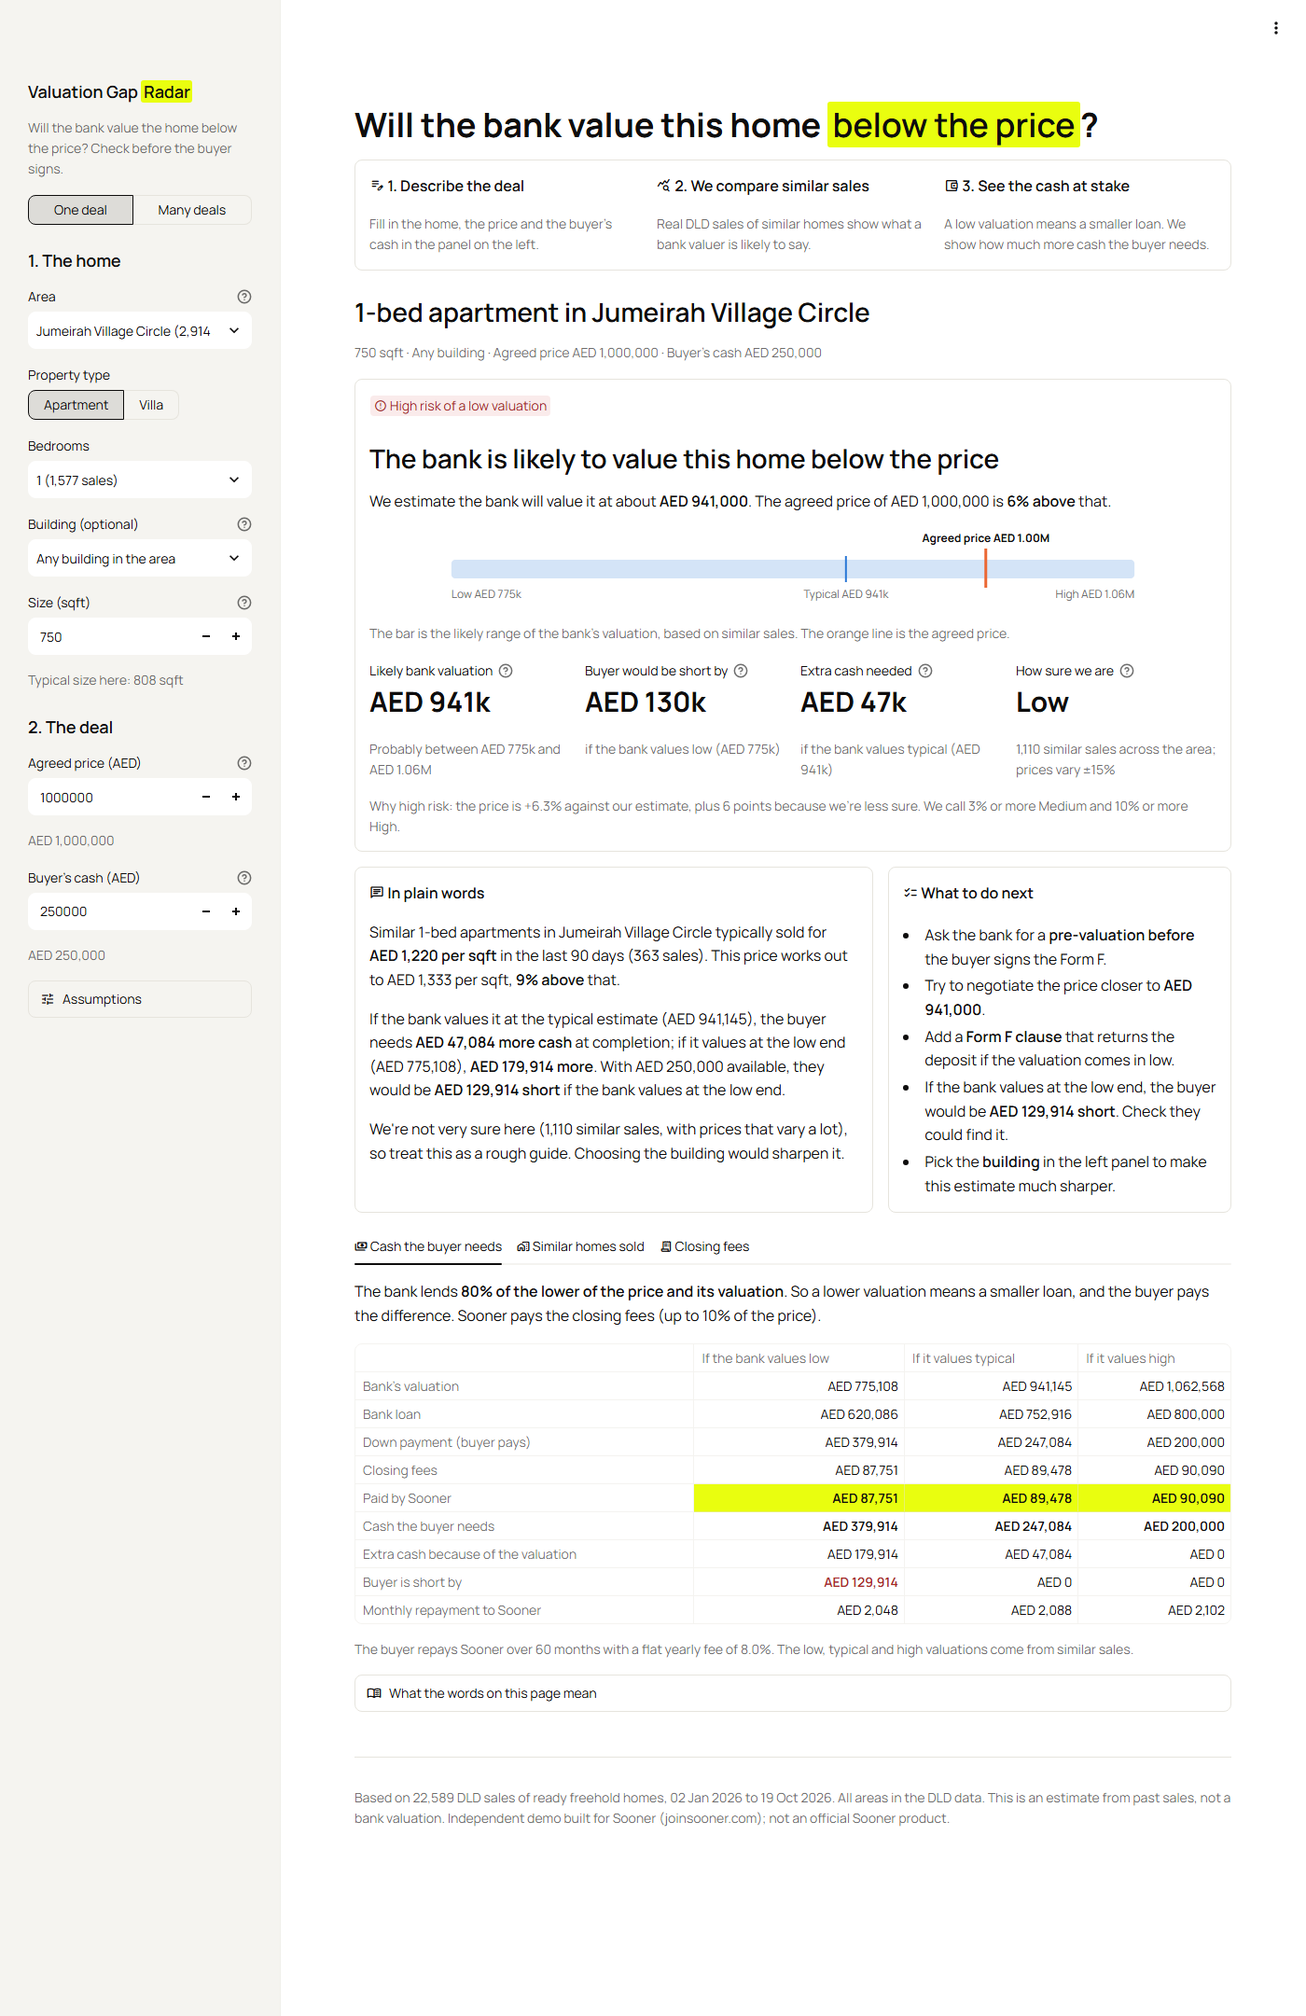
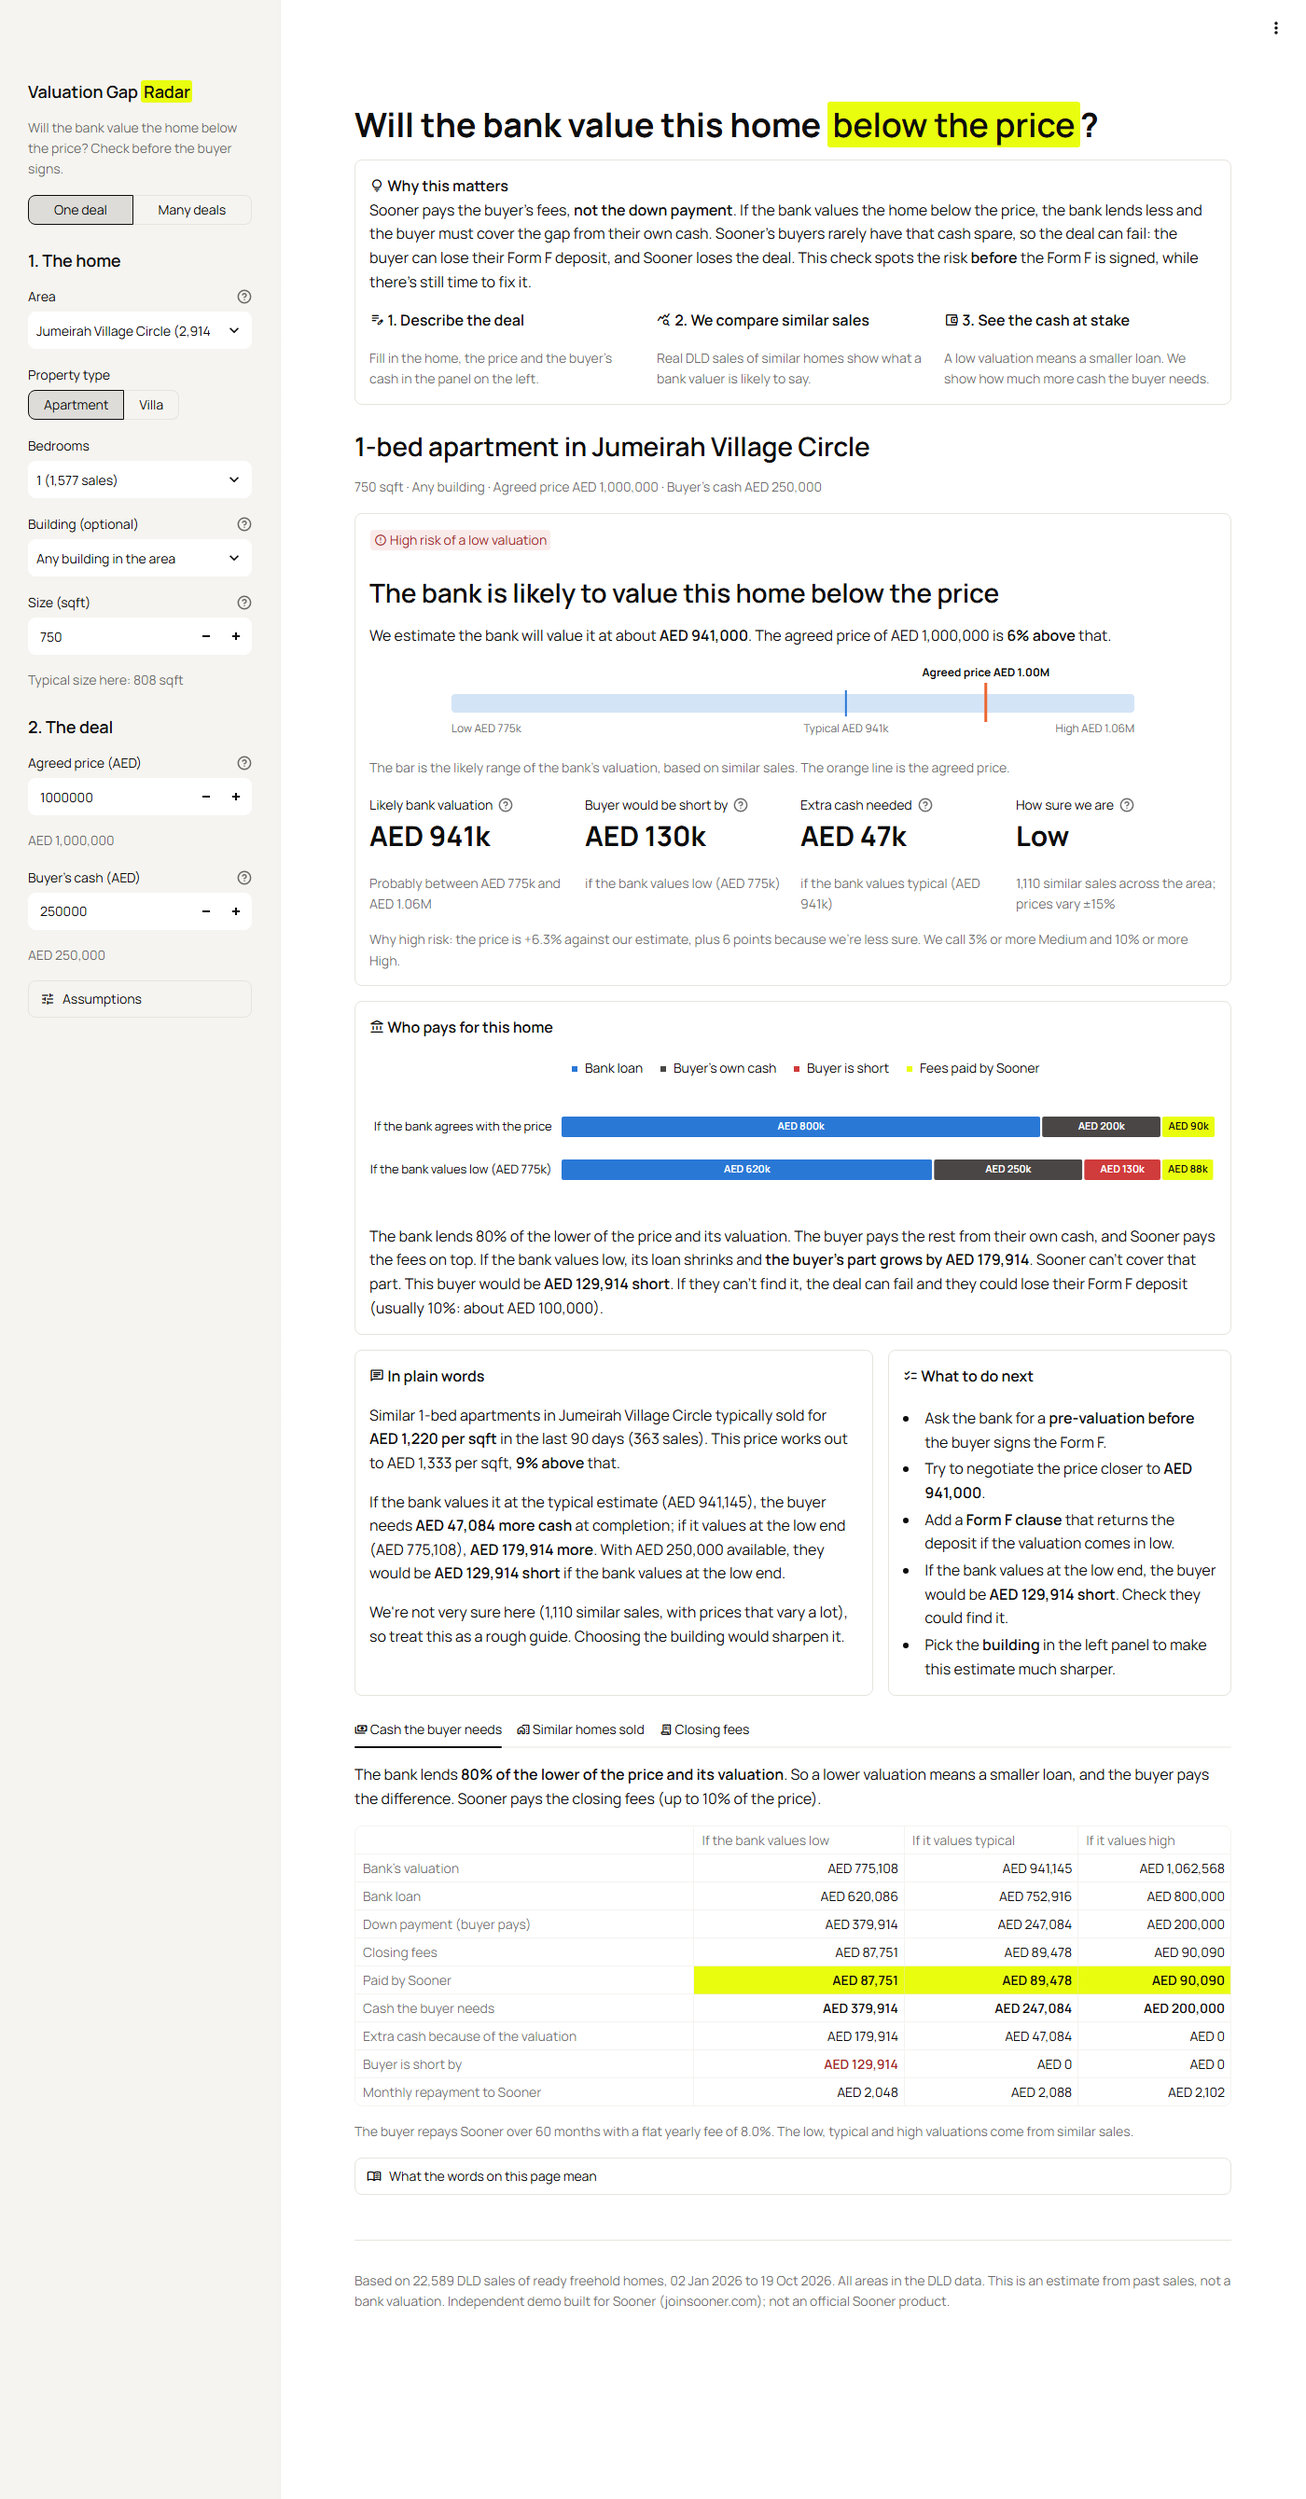
Explain why Sooner cares, right in the app
- "Why this matters" box at the top of both pages: Sooner pays the fees,
  not the down payment, so a low valuation lands on the buyer and can sink
  the deal (lost Form F deposit, lost deal for Sooner)
- "Who pays for this home" chart: one bar if the bank agrees with the price
  and one if it values low, split into bank loan, buyer's own cash, any
  shortfall and Sooner's fees, with the deposit at stake spelled out
- Many deals: "Deposits at risk" tile (10% Form F deposits of buyers who'd
  be short if valued low); FORM_F_DEPOSIT_SHARE added to config
- App tests check the new sections; README and screenshots updated

Changed region(s): [[0.2764, 0.031, 0.9521, 0.9301], [0.0, 0.031, 0.1843, 0.4031], [0.0307, 0.4341, 0.0614, 0.4961]]

diff --git a/app.py b/app.py
@@ -32,9 +32,11 @@ st.set_page_config(page_title="Valuation Gap Radar", page_icon=":material/radar:
 # kept for highlights only, because as a line or dot on white it can't be seen.
 COLORS = {
     "light": {"comps": "#2a78d6", "deal": "#eb6834", "surface": "#ffffff", "band": 0.2,
-              "ink": "#0e0d0d", "muted": "#6e6e6e", "bad": "#a82828"},
+              "ink": "#0e0d0d", "muted": "#6e6e6e", "bad": "#a82828",
+              "buyer": "#4a4646", "buyer_ink": "#ffffff"},
     "dark": {"comps": "#3987e5", "deal": "#d95926", "surface": "#0e0d0d", "band": 0.4,
-             "ink": "#f4f4f4", "muted": "#9f9e9e", "bad": "#ff8a8a"},
+             "ink": "#f4f4f4", "muted": "#9f9e9e", "bad": "#ff8a8a",
+             "buyer": "#cfcfcf", "buyer_ink": "#0e0d0d"},
 }
 # Sooner's lime highlighter. Text on it is always near-black, as on joinsooner.com,
 # so it stays readable in dark mode too.
@@ -141,9 +143,10 @@ def home_label(property_type: str, bedrooms: int) -> str:
     return f"Studio {kind}" if bedrooms == 0 else f"{bedrooms}-bed {kind}"
 
 
-def how_it_works(steps: list[tuple[str, str, str]]) -> None:
-    """A row of numbered steps that explains the page in a few seconds."""
+def page_intro(why: str, steps: list[tuple[str, str, str]]) -> None:
+    """Why the page matters to Sooner, then numbered steps explaining how to use it."""
     with st.container(border=True):
+        st.markdown(f":material/lightbulb: **Why this matters**  \n{why}")
         for column, (icon, title, text) in zip(st.columns(len(steps)), steps):
             column.markdown(f"{icon} **{title}**")
             column.caption(text)
@@ -246,14 +249,20 @@ def settings_inputs() -> dict:
 
 def show_deal(sales: pd.DataFrame, d: dict, settings: dict) -> None:
     st.markdown(f"## Will the bank value this home {highlight('below the price')}?", unsafe_allow_html=True)
-    how_it_works([
+    page_intro(
+        "Sooner pays the buyer's fees, **not the down payment**. If the bank values the home below the price, "
+        "the bank lends less and the buyer must cover the gap from their own cash. Sooner's buyers rarely have "
+        "that cash spare, so the deal can fail: the buyer can lose their Form F deposit, and Sooner loses the "
+        "deal. This check spots the risk **before** the Form F is signed, while there's still time to fix it.",
+        [
         (":material/edit_note:", "1. Describe the deal", "Fill in the home, the price and the buyer's cash "
                                                          "in the panel on the left."),
         (":material/query_stats:", "2. We compare similar sales", "Real DLD sales of similar homes show what "
                                                                   "a bank valuer is likely to say."),
         (":material/account_balance_wallet:", "3. See the cash at stake", "A low valuation means a smaller loan. "
                                                                          "We show how much more cash the buyer needs."),
-    ])
+        ],
+    )
 
     building = d["project"] or "Any building"
     st.subheader(f"{home_label(d['property_type'], d['bedrooms'])} in {d['area']}")
@@ -279,6 +288,7 @@ def show_deal(sales: pd.DataFrame, d: dict, settings: dict) -> None:
                         estimate=est, risk=risk, scenarios=scenarios, include_actions=False)
 
     verdict_card(d, est, risk, scenarios)
+    who_pays(d, est, settings)
     left, right = st.columns([3, 2])
     with left:
         text_card("In plain words", ":material/chat:", note)
@@ -342,6 +352,75 @@ def verdict_card(d: dict, est, risk, scenarios: pd.DataFrame) -> None:
                + f". We call {config.MEDIUM_RISK_FROM:.0%} or more Medium and {config.HIGH_RISK_FROM:.0%} "
                  "or more High.")
         st.caption(why)
+
+
+def who_pays(d: dict, est, settings: dict) -> None:
+    """Who pays what, if the bank agrees with the price and if it values low.
+
+    This is the heart of the problem: Sooner covers the fees, but a low
+    valuation grows the buyer's own part, which Sooner can't cover.
+    """
+    split = scenario_table(
+        d["price"],
+        {"If the bank agrees with the price": d["price"],
+         f"If the bank values low ({aed_short(est.value_p25)})": est.value_p25},
+        d["cash_available"], **settings,
+    )
+    agree, low = split.iloc[0], split.iloc[1]
+    extra = low["cash_needed"] - agree["cash_needed"]
+
+    with st.container(border=True):
+        st.markdown(":material/account_balance: **Who pays for this home**")
+        st.altair_chart(who_pays_chart(split, d["cash_available"], colors()), width="stretch")
+        text = (f"The bank lends {settings['ltv']:.0%} of the lower of the price and its valuation. The buyer pays "
+                "the rest from their own cash, and Sooner pays the fees on top. ")
+        if extra > 0:
+            text += (f"If the bank values low, its loan shrinks and **the buyer's part grows by {aed(extra)}**. "
+                     "Sooner can't cover that part.")
+        else:
+            text += "Even at the low end of the likely range, the valuation is at or above the price, so the buyer's part doesn't grow."
+        if low["shortfall"] > 0:
+            deposit = config.FORM_F_DEPOSIT_SHARE * d["price"]
+            text += (f" This buyer would be **{aed(low['shortfall'])} short**. If they can't find it, the deal can "
+                     f"fail and they could lose their Form F deposit (usually "
+                     f"{config.FORM_F_DEPOSIT_SHARE:.0%}: about {aed_round(deposit)}).")
+        st.markdown(text)
+
+
+def who_pays_chart(split: pd.DataFrame, cash: float, c: dict) -> alt.Chart:
+    """One bar per scenario: the bank's loan, the buyer's own cash, any shortfall, and Sooner's fees."""
+    parts = ["Bank loan", "Buyer's own cash", "Buyer is short", "Fees paid by Sooner"]
+    fills = [c["comps"], c["buyer"], "#d03b3b", "#e9fe0f"]
+    inks = ["#ffffff", c["buyer_ink"], "#ffffff", "#0e0d0d"]  # label colour on each fill
+    rows = []
+    for _, s in split.iterrows():
+        amounts = [s["loan"], min(s["cash_needed"], cash), s["shortfall"], s["sooner_support"]]
+        start = 0.0
+        for part, amount, ink in zip(parts, amounts, inks):
+            rows.append({"scenario": s["name"], "part": part, "start": start, "end": start + amount,
+                         "mid": start + amount / 2, "amount": amount, "label": aed_short(amount), "ink": ink})
+            start += amount
+    data = pd.DataFrame(rows)
+    data = data[data["amount"] > 0]
+    total = data["end"].max()
+    x_scale = alt.Scale(domain=[0, total])
+    y = alt.Y("scenario:N", sort=split["name"].tolist(), title=None,
+              axis=alt.Axis(labelLimit=320, labelFontSize=13, ticks=False, domain=False,
+                            labelPadding=10, labelColor=c["ink"]))
+
+    bars = alt.Chart(data).mark_bar(size=24, cornerRadius=3, stroke=c["surface"], strokeWidth=2).encode(
+        y=y, x=alt.X("start:Q", scale=x_scale, axis=None), x2="end:Q",
+        color=alt.Color("part:N", scale=alt.Scale(domain=parts, range=fills),
+                        legend=alt.Legend(orient="top", title=None, labelColor=c["ink"], symbolType="square")),
+        tooltip=[alt.Tooltip("scenario:N", title="Scenario"), alt.Tooltip("part:N", title="Part"),
+                 alt.Tooltip("amount:Q", title="AED", format=",.0f")],
+    )
+    # Write the amount inside a segment only when it's wide enough to hold it.
+    labels = alt.Chart(data[data["amount"] / total > 0.08]).mark_text(fontSize=11, fontWeight=600).encode(
+        y=y, x=alt.X("mid:Q", scale=x_scale, axis=None), text="label:N", color=alt.Color("ink:N", scale=None),
+    )
+    # A fixed height per row (not for the whole chart) keeps the two bars apart.
+    return alt.layer(bars, labels).properties(height=alt.Step(46)).configure_view(stroke=None)
 
 
 def next_steps(est, risk, scenarios: pd.DataFrame) -> list[str]:
@@ -588,12 +667,17 @@ REPORT_FORMATS = {
 
 def show_batch(sales: pd.DataFrame, settings: dict) -> None:
     st.markdown(f"## Check {highlight('many deals')} at once", unsafe_allow_html=True)
-    how_it_works([
-        (":material/download:", "1. Get the template", "Download the example file below and see the columns."),
-        (":material/table_edit:", "2. One row per deal", "Fill it in, or export your pipeline from the CRM "
-                                                        "with the same columns."),
-        (":material/upload_file:", "3. Upload it", "Every deal is checked, and the riskiest come first."),
-    ])
+    page_intro(
+        "Every deal where the buyer would be short of cash could fail at the bank valuation: Sooner loses the "
+        "deal and the buyer can lose their deposit. This list shows which deals to act on first, **before** "
+        "their Form F is signed.",
+        [
+            (":material/download:", "1. Get the template", "Download the example file below and see the columns."),
+            (":material/table_edit:", "2. One row per deal", "Fill it in, or export your pipeline from the CRM "
+                                                            "with the same columns."),
+            (":material/upload_file:", "3. Upload it", "Every deal is checked, and the riskiest come first."),
+        ],
+    )
 
     with st.container(border=True):
         left, right = st.columns([3, 1], vertical_alignment="center")
@@ -616,20 +700,21 @@ def show_batch(sales: pd.DataFrame, settings: dict) -> None:
         report = assess_deals(sales, deals, **settings)
     assessed = report[report["risk"] != "Unknown"]
 
-    # Summary
-    short = assessed[assessed["short_median"] > 0]
+    # Summary: what's at stake for Sooner and its buyers
     short_low = assessed[assessed["short_p25"] > 0]
+    deposits = config.FORM_F_DEPOSIT_SHARE * short_low["price"].sum()
     c1, c2, c3, c4 = st.columns(4)
     c1.metric("Deals checked", len(report), border=True, icon=":material/fact_check:")
     c1.caption(f"{len(assessed)} assessed, {len(report) - len(assessed)} couldn't be (see Notes)")
     c2.metric("High risk", int((report["risk"] == "High").sum()), border=True, icon=":material/error:")
     c2.caption(f"Plus {int((report['risk'] == 'Medium').sum())} at Medium risk")
-    c3.metric("Short if typical", len(short), border=True, icon=":material/account_balance_wallet:",
-              help="Buyers who would lack cash if the bank values at the typical estimate.")
-    c3.caption(f"{aed(short['short_median'].sum())} short in total")
-    c4.metric("Short if low", len(short_low), border=True, icon=":material/trending_down:",
-              help="Buyers who would lack cash if the bank values at the low end of the range.")
-    c4.caption(f"{aed(short_low['short_p25'].sum())} short in total")
+    c3.metric("Could fail if valued low", len(short_low), border=True, icon=":material/trending_down:",
+              help="Deals where the buyer would be short of cash if the bank values at the low end of the range.")
+    c3.caption(f"Buyers {aed(short_low['short_p25'].sum())} short in total")
+    c4.metric("Deposits at risk", aed_short(deposits), border=True, icon=":material/savings:",
+              help=f"The Form F deposits (usually {config.FORM_F_DEPOSIT_SHARE:.0%} of the price) of the buyers "
+                   "in those deals. If a deal fails, the buyer can lose it.")
+    c4.caption(f"{config.FORM_F_DEPOSIT_SHARE:.0%} deposits across those {len(short_low)} deals")
 
     # Report, riskiest first
     st.subheader("Every deal, riskiest first")

diff --git a/radar/config.py b/radar/config.py
@@ -39,10 +39,14 @@ SOONER_FEE_DEFAULT = 0.08
 SOONER_VALUE_BASIS_DEFAULT = "price"  # "price" or "valuation"
 
 # ---------------------------------------------------------------------------
-# Mortgage
+# Mortgage and contract
 # ---------------------------------------------------------------------------
 # UAE Central Bank cap for an expat's first home under AED 5M.
 DEFAULT_LTV = 0.80
+
+# The deposit a buyer pays when signing the Form F (usually 10% in Dubai). They
+# can lose it if they can't complete, e.g. after a low valuation.
+FORM_F_DEPOSIT_SHARE = 0.10
 
 # ---------------------------------------------------------------------------
 # Closing costs: the fee lines on Sooner's calculator (joinsooner.com).

diff --git a/tests/test_app.py b/tests/test_app.py
@@ -27,7 +27,10 @@ def test_one_deal_page_shows_a_verdict():
     at = run_app()
 
     assert not at.exception
-    assert "We estimate the bank will value it at about" in page_text(at)
+    text = page_text(at)
+    assert "Why this matters" in text  # the business reason, up front
+    assert "We estimate the bank will value it at about" in text
+    assert "Who pays for this home" in text
     assert len(at.tabs) == 3
 
 
@@ -54,3 +57,4 @@ def test_pipeline_mode_reports_every_example_deal():
 
     assert not at.exception
     assert at.metric[0].value == "12"  # Deals checked
+    assert at.metric[3].label == "Deposits at risk"

diff --git a/README.md b/README.md
@@ -35,11 +35,13 @@ cash is at stake?
 
 ## What it does
 
-The app is written so anyone can follow it. It uses everyday words ("likely
-bank valuation", "buyer would be short by", "how sure we are") rather than
-P25 or LTV, each page opens with a three-step "how this works" strip, every
-input and number has a help tooltip, and a glossary at the bottom explains the
-terms.
+The app is written so anyone can follow it, including why it matters to the
+business. Each page opens with **"Why this matters"** (Sooner pays the fees,
+not the down payment, so a low valuation lands on the buyer and can sink the
+deal) and a three-step "how this works" strip. It uses everyday words ("likely
+bank valuation", "buyer would be short by", "how sure we are") rather than P25
+or LTV, every input and number has a help tooltip, and a glossary at the bottom
+explains the terms.
 
 **One deal.** Enter the home (area, type, bedrooms, building, size) and the
 deal (agreed price, buyer's cash). The page leads with the answer:
@@ -48,6 +50,10 @@ deal (agreed price, buyer's cash). The page leads with the answer:
   own colour and icon), a one-line headline, the estimate in a sentence, a bar
   showing where the agreed price sits against the likely valuation range, four
   key numbers, and a line saying why it's that risk level
+- **Who pays for this home**: one bar for "the bank agrees with the price" and
+  one for "the bank values low", each split into the bank's loan, the buyer's own
+  cash, any shortfall (in red) and the fees Sooner pays. It shows the buyer's
+  part growing when the valuation drops, and the Form F deposit at stake
 - **In plain words**: the advisor note, for example: *"Similar 1-bed apartments
   in Jumeirah Village Circle typically sold for AED 1,220 per sqft in the last
   90 days (363 sales). This price works out to AED 1,333 per sqft, 9% above
@@ -70,7 +76,9 @@ checked at once, riskiest first, with a downloadable report.
 ![Many deals: summary tiles, every deal sorted by risk, and the message for one deal](docs/screenshots/pipeline.png)
 
 In the example pipeline, 9 of the 10 assessable buyers would be short of cash
-if the bank valued low (P25), including some Low-risk deals. Buyers who hold only
+if the bank valued low (P25), including some Low-risk deals, putting about
+**AED 2.05M of Form F deposits** at risk (the page's "Deposits at risk" tile,
+assuming the usual 10% deposit). Buyers who hold only
 the 20% down payment have no buffer for even a small gap.
 
 ## How it works
@@ -164,6 +172,7 @@ changed in the app's Assumptions panel.
 | Sooner repayment | 60 months, 7–9% flat yearly fee (8% default) |
 | "Property value" for the 10% limit | Agreed price (switchable to valuation) |
 | Loan-to-value | 80% (expat, first home under AED 5M) |
+| Form F deposit | 10% of the price (usual in Dubai), used for "deposits at risk" |
 | Dubai Land Department | 4% of price + AED 580 |
 | DLD title deed | AED 250 |
 | Agency commission | 2% of price + VAT |
